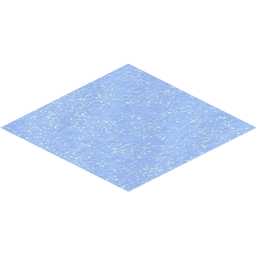
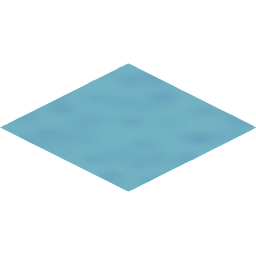
Varied tree tilesets, minor changes/fixes

Changed region(s): [[0.0, 0.25, 1.0, 0.75]]

diff --git a/public/lib/game/main.js b/public/lib/game/main.js
@@ -194,9 +194,19 @@ ig.module(
                 moneyBox.enableNinePatch(5, 11, 5, 10);
                 this.ui.addElement(moneyBox);
                 moneyText = new UIElement(new Rect(148, 1, 1, 1));
-                this.money = "$1,000,000.00";
+                this.money = 0;
                 moneyText.enableText(function () {
-                    return self.money;
+                    var num = self.money, sign, cents;
+                    num = num.toString().replace(/\$|\,/g, '');
+                    if (isNaN(num)) num = "0";
+                    sign = (num == (num = Math.abs(num)));
+                    num = Math.floor(num * 100 + 0.50000000001);
+                    cents = num % 100;
+                    num = Math.floor(num / 100).toString();
+                    if (cents < 10) cents = "0" + cents;
+                    for (var i = 0; i < Math.floor((num.length - (1 + i)) / 3); i++)
+                        num = num.substring(0, num.length - (4 * i + 3)) + ',' + num.substring(num.length - (4 * i + 3));
+                    return (((sign) ? '' : '-') + '$' + num + '.' + cents);
                 }, this.font, ig.Font.ALIGN.RIGHT);
                 moneyBox.addChild(moneyText);
 
@@ -471,7 +481,7 @@ ig.module(
                     "button_click",
                     function() {
                         ig.log("Attempted to harvest tile - not yet implemented!");
-                        self.harvestTile(self.selectedTile[0], self.selectedTile[1]);
+                        self.showHarvestWindow(self.selectedTile[0], self.selectedTile[1]);
                         //Need to open a window to specify the type of cut
                     },
                     undefined,
@@ -734,7 +744,8 @@ ig.module(
                                     tileFeature = "forest_tileset_light";
                                 }
                                 else {
-                                    tileFeature = "forest_tileset_heavy";
+                                    tileFeature =
+                                        "forest_tileset_heavy_" + Math.floor((Math.random() * 3) + 1);
                                 }
                                 break;
                             case "cultivated_crops":
@@ -949,19 +960,6 @@ ig.module(
 
                     this.terrainMap.draw();
 
-                    if (this.selectedTile) {
-                        x = this.selectedTile[0];
-                        y = this.selectedTile[1];
-                        realX = (x - y) * this.terrainMap.tilesize;
-                        realY = (x + y) / 2 * this.terrainMap.tilesize;
-                        var highlight = this.assetManager.images["selection_highlight"];
-                        if (highlight) {
-                            ctx.drawImage(this.assetManager.images["selection_highlight"],
-                                realX,
-                                realY);
-                        }
-                    }
-
                     // Viewing tiles this player owns
                     if (this.ownedTiles && this.viewOwnedTiles) {
                         for (i = 0; i < this.ownedTiles.length; i++) {
@@ -995,6 +993,19 @@ ig.module(
                                     }
                                 }
                             }
+                        }
+                    }
+
+                    if (this.selectedTile) {
+                        x = this.selectedTile[0];
+                        y = this.selectedTile[1];
+                        realX = (x - y) * this.terrainMap.tilesize;
+                        realY = (x + y) / 2 * this.terrainMap.tilesize;
+                        var highlight = this.assetManager.images["selection_highlight"];
+                        if (highlight) {
+                            ctx.drawImage(this.assetManager.images["selection_highlight"],
+                                realX,
+                                realY);
                         }
                     }
 
@@ -1536,7 +1547,89 @@ ig.module(
                         upgrade.addChild(upgradeText);
                         this.upgrades.push(upgrade);
                     }
+                    var startY = upgrade.bounds.y + upgrade.bounds.height + 20;
+                    this.ownedUpgradesText = new UIElement(new Rect(
+                        0,
+                        startY,
+                        1,
+                        1
+                    ));
+                    if (this.ownedUpgrades) {
+                        this.ownedUpgradesText.enableText(
+                            function() { return " Owned Upgrades: " },
+                            this.font,
+                            ig.Font.ALIGN.LEFT
+                        );
+                        if (this.upgradesChanged) {
+                            if (!this.ownedUpgradesArray) {
+                                this.ownedUpgradesArray = [];
+                            }
+                            for (i = 0; i < this.ownedUpgradesArray.length; i++) {
+                                upgrade = this.ownedUpgradesArray[i];
+                                this.upgradeScrollField.contentPanel.removeChild(upgrade);
+                            }
+                            this.ownedUpgradesArray = [];
+                            for (i = 0; i < this.ownedUpgrades.length; i++) {
+                                upgrade = new Button(
+                                    new Rect(
+                                        upgradeSpacing + (i % 3) * upgradeWidth + (i % 3) * upgradeSpacing,
+                                        startY + upgradeSpacing + ((i / 3) | 0) * upgradeHeight + ((i / 3) | 0) * upgradeSpacing,
+                                        upgradeWidth,
+                                        upgradeHeight
+                                    ),
+                                    "uibox",
+                                    "uibox",
+                                    "uibox",
+                                    function() {
+
+                                    },
+                                    undefined,
+                                    [3, 75, 4, 33]
+                                );
+                                this.upgradeTooltipSource = this.ownedUpgrades[i].logging_equipment;
+                                upgrade.upgradeInfo = this.ownedUpgrades[i].logging_equipment;
+                                upgrade.onLongHover = function() {
+                                    self.generateUpgradeTooltip(this.upgradeInfo);
+                                };
+                                upgrade.onUnLongHover = function() {
+                                    self.removeUpgradeTooltip();
+                                };
+                                upgrade.funcToCall = function() {
+                                    var thisUpgrade = this;
+                                    self.showConfirmWindow(function() {
+                                            return "Are you sure you want to purchase\nthe "
+                                                + thisUpgrade.upgradeInfo.name + " upgrade?";
+                                        },
+                                        self.onConfirmPurchaseUpgrade,
+                                        thisUpgrade.upgradeInfo);
+                                    self.removeUpgradeTooltip();
+                                };
+                                this.upgradeScrollField.contentPanel.addChild(upgrade);
+                                var upgradeImage = new UIElement(new Rect(9, 10, 128, 128));
+                                upgradeImage.hoverPassThrough = true;
+                                if (this.upgradeTooltipSource.name === "Sawyer Crew") {
+                                    upgradeImage.setImage("sawyer_upgrade_picture");
+                                }
+                                else {
+                                    upgradeImage.setImage("upgrade_picture");
+                                }
+                                upgrade.addChild(upgradeImage);
+                                var upgradeText = new UIElement(new Rect(upgradeWidth / 2, 144, upgradeWidth - 10, 0));
+                                this.specificUpgrade = this.availableUpgrades[i].logging_equipment;
+                                console.log(this.specificUpgrade);
+                                upgradeText.text = this.specificUpgrade.name;
+                                upgradeText.enableText(function() {
+                                        return this.text;
+                                    },
+                                    this.font, ig.Font.ALIGN.CENTER);
+                                upgrade.addChild(upgradeText);
+                                this.ownedUpgradesArray.push(upgrade);
+                            }
+                            this.upgradesChanged = false;
+                        }
+                    }
                 }
+
             },
 
             onGetAvailableUpgradesForPlayer: function(upgrades) {
@@ -1704,16 +1797,129 @@ ig.module(
 
             // ******************* HARVESTING *************************
 
+            showHarvestWindow: function(x, y) {
+                var self = this;
+                // Making sure the confirm window exists
+                if (!this.harvestWindow) {
+                    this.harvestWindow = new UIElement(new Rect(
+                        ig.system.width / 2 - 250,
+                        ig.system.height / 2 - 150,
+                        500,
+                        300
+                    ));
+                    this.harvestWindow.setImage("uibox");
+                    this.harvestWindow.enableNinePatch(5, 11, 6, 11);
+                    this.ui.addElement(this.harvestWindow);
+                }
+                this.harvestWindow.hide = false;
+
+                if (!this.harvestWindowClose) {
+                    this.harvestWindowClose = new Button(
+                        new Rect(
+                            this.harvestWindow.bounds.width - 30, 0, 20, 20
+                        ),
+                        "button",
+                        "button_hover",
+                        "button_click",
+                        function() {
+                            self.harvestWindow.hide = true;
+                        },
+                        undefined,
+                        [3, 75, 4, 33]
+                    );
+                    this.harvestWindow.addChild(this.harvestWindowClose);
+                    var harvestWindowCloseText = new UIElement(new Rect(12, 1, 1, 1));
+                    harvestWindowCloseText.enableText(function() { return "x"; }, this.font, ig.Font.ALIGN.CENTER);
+                    this.harvestWindowClose.addChild(harvestWindowCloseText);
+                }
+
+                if (!this.harvestOptionClearcut) {
+                    this.harvestOptionClearcut = new Button(
+                        new Rect(
+                            0,
+                            20,
+                            this.harvestWindow.getInnerWidth(),
+                            135
+                        ),
+                        "button",
+                        "button_hover",
+                        "button_click",
+                        function() {
+                            TFglobals.DATA_CONTROLLER.attemptToClearCutMegatileIncludingResourceTileXY(x, y);
+                            self.harvestWindow.hide = true;
+                        },
+                        undefined,
+                        [3, 75, 4, 33]
+                    );
+                    this.harvestWindow.addChild(this.harvestOptionClearcut);
+                    var harvestOptionClearcutText = new UIElement(new Rect(
+                        10,
+                        10,
+                        this.harvestOptionClearcut.getInnerWidth() - 20,
+                        0
+                    ));
+                    harvestOptionClearcutText.enableText(function() {
+                            return "Clearcut:\n" +
+                                "Clear the tile of any loggable trees. This option RELEVANT INFORMATION HERE.";
+                        },
+                        this.font, ig.Font.ALIGN.LEFT);
+                    this.harvestOptionClearcut.addChild(harvestOptionClearcutText);
+                }
+
+                if (!this.harvestOptionDiameterLimit) {
+                    this.harvestOptionDiameterLimit = new Button(
+                        new Rect(
+                            0,
+                            155,
+                            this.harvestWindow.getInnerWidth(),
+                            135
+                        ),
+                        "button",
+                        "button_hover",
+                        "button_click",
+                        function() {
+                            TFglobals.DATA_CONTROLLER.attemptToDiameterLimitCutMegatileWithResourceTileXY(x, y);
+                            self.harvestWindow.hide = true;
+                        },
+                        undefined,
+                        [3, 75, 4, 33]
+                    );
+                    this.harvestWindow.addChild(this.harvestOptionDiameterLimit);
+                    var harvestOptionDiameterLimitText = new UIElement(new Rect(
+                        10,
+                        10,
+                        this.harvestOptionDiameterLimit.getInnerWidth() - 20,
+                        0
+                    ));
+                    harvestOptionDiameterLimitText.enableText(function() {
+                            return "Diameter Limit:\n" +
+                                "Clear the tile of any trees greater than 12 inches in diameter. This option STUFF";
+                        },
+                        this.font, ig.Font.ALIGN.LEFT);
+                    this.harvestOptionDiameterLimit.addChild(harvestOptionDiameterLimitText);
+                }
+
+            },
+
             harvestTile: function(x, y) {
                 TFglobals.DATA_CONTROLLER.attemptToClearCutTileWithXY(x, y);
             },
 
-            onAttemptToClearCutTileWithXY: function(theResponse) {
+            onAttemptToDiameterLimitCutMegatileWithResourceTileXY: function(theResponse) {
                 if(this.serverResponseWasPositive(theResponse)){
-                    console.log("onAttemptToClearCutTileWithId success!");
+                    console.log("onGetEstimateForClearCutMegatileIncludingResourceTileXY success!");
                 }
                 else{
-                    console.log("onAttemptToClearCutTileWithId failure with message: " + theResponse.errors.join(", "));
+                    console.log("onGetEstimateForClearCutMegatileIncludingResourceTileXY failure with message: " + theResponse.errors.join(", "));
+                }
+            },
+
+            onAttemptToClearCutMegatileIncludingResourceTileXY: function(theResponse) {
+                if(this.serverResponseWasPositive(theResponse)){
+                    console.log("onAttemptToClearCutMegatileIncludingResourceTileXY success!");
+                }
+                else{
+                    console.log("onAttemptToClearCutMegatileIncludingResourceTileXY failure with message: " + theResponse.errors.join(", "));
                 }
             },
 
@@ -1742,7 +1948,10 @@ ig.module(
             // ******************* ACTION-CHECKING ******************
 
             canHarvestSelectedTile: function() {
-                return true;
+                return (this.ownedTiles
+                            && this.selectedTile
+                            && this.ownedTiles[this.selectedTile[0]]
+                            && this.ownedTiles[this.selectedTile[0]][this.selectedTile[1]]);
             },
 
             canPlantSelectedTile: function() {

diff --git a/public/lib/game/assetmanager.js b/public/lib/game/assetmanager.js
@@ -106,7 +106,9 @@ ig.module(
                     "media/shoreline_P.png",
                     "media/shoreline_Q.png",
                     "media/selection_highlight.png",
-                    "media/forest_tileset_heavy.png",
+                    "media/forest_tileset_heavy_1.png",
+                    "media/forest_tileset_heavy_2.png",
+                    "media/forest_tileset_heavy_3.png",
                     "media/forest_tileset_light.png",
                     "media/harvesting_tile.png",
                     "media/contract_picture.png",

diff --git a/public/lib/game/uielement.js b/public/lib/game/uielement.js
@@ -317,7 +317,8 @@ ig.module(
 
         getInnerWidth: function() {
             return this.bounds.width
-                - ((this._ninePatch)? (this._ninePatchData.x1 + this._ninePatchData.x2 - this.bounds.width) : 0);
+                - (((this._ninePatch && !(!this.imageName))?
+                    (this._ninePatchData.x1 + (this.assetManager.images[this.imageName].width - this._ninePatchData.x2)) : 0));
         },
 
         /**
